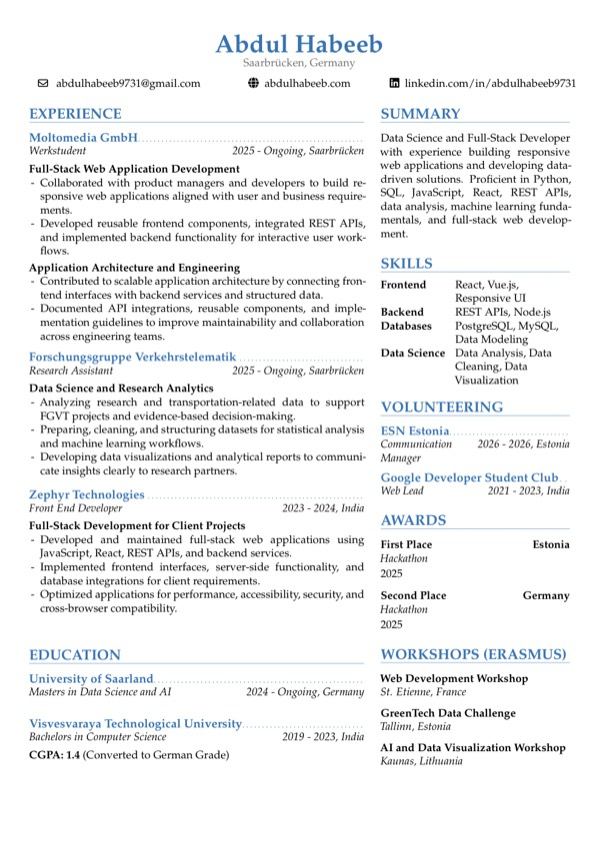
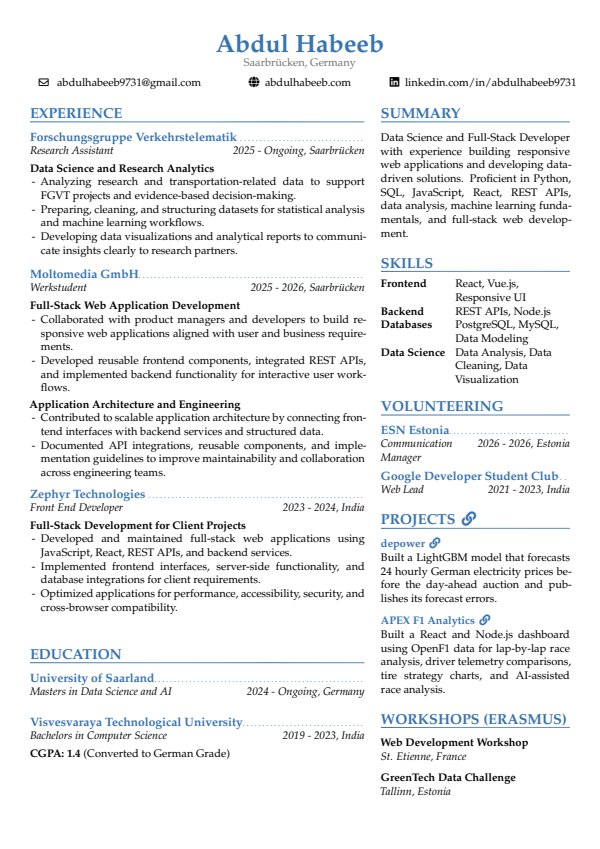
Update the resume and its hover preview

diff --git a/index.html b/index.html
@@ -73,7 +73,7 @@
       <a class="hero-pill" href="#about"><span data-i18n="pillBadge">Hi, I’m</span><b>Abdul Habeeb</b> →</a>
       <h1><span class="hero-role" data-i18n="heroRole">Data Science &amp; Full-Stack Developer · Saarbrücken</span><span class="hero-tagline" data-i18n="heroTitle">I turn complex data into <em>useful, accessible products.</em></span></h1>
       <p class="hero-proof" data-i18n="heroProof"><span>Data Science &amp; AI at Saarland University</span><i class="sep" aria-hidden="true"> · </i><span>Research at FGVT</span><i class="sep" aria-hidden="true"> · </i><span>Client work across Germany, Dubai and India</span></p>
-      <div class="hero-actions"><span class="peek-wrap"><a class="button is-solid" href="#projects" data-i18n="seeProjects">See projects <span>↘</span></a><a class="peek is-projects" href="#projects" tabindex="-1" aria-hidden="true"><img alt="" width="520" height="263" data-src="public/resources/projects/peek-anime-recommender.jpg?v=1" /><img alt="" width="520" height="263" data-src="public/resources/projects/peek-apex-f1-analytics.jpg?v=1" /><img alt="" width="520" height="263" data-src="public/resources/projects/peek-depower.jpg?v=1" /></a></span><span class="peek-wrap"><a class="button" href="public/resources/Abdul_Habeeb_Resume.pdf#view=FitH" target="_blank" rel="noopener" data-i18n="resume">View resume <span>↗</span></a><a class="peek is-resume" href="public/resources/Abdul_Habeeb_Resume.pdf#view=FitH" target="_blank" rel="noopener" tabindex="-1" aria-hidden="true"><img alt="" width="600" height="849" data-src="public/resources/resume-preview.jpg?v=1" /></a></span></div>
+      <div class="hero-actions"><span class="peek-wrap"><a class="button is-solid" href="#projects" data-i18n="seeProjects">See projects <span>↘</span></a><a class="peek is-projects" href="#projects" tabindex="-1" aria-hidden="true"><img alt="" width="520" height="263" data-src="public/resources/projects/peek-anime-recommender.jpg?v=1" /><img alt="" width="520" height="263" data-src="public/resources/projects/peek-apex-f1-analytics.jpg?v=1" /><img alt="" width="520" height="263" data-src="public/resources/projects/peek-depower.jpg?v=1" /></a></span><span class="peek-wrap"><a class="button" href="public/resources/Abdul_Habeeb_Resume.pdf#view=FitH" target="_blank" rel="noopener" data-i18n="resume">View resume <span>↗</span></a><a class="peek is-resume" href="public/resources/Abdul_Habeeb_Resume.pdf#view=FitH" target="_blank" rel="noopener" tabindex="-1" aria-hidden="true"><img alt="" width="600" height="849" data-src="public/resources/resume-preview.jpg?v=2" /></a></span></div>
     </div>
     <div class="hero-trust" aria-label="Companies, clients and products I’ve worked on">
       <div class="trust-track">
